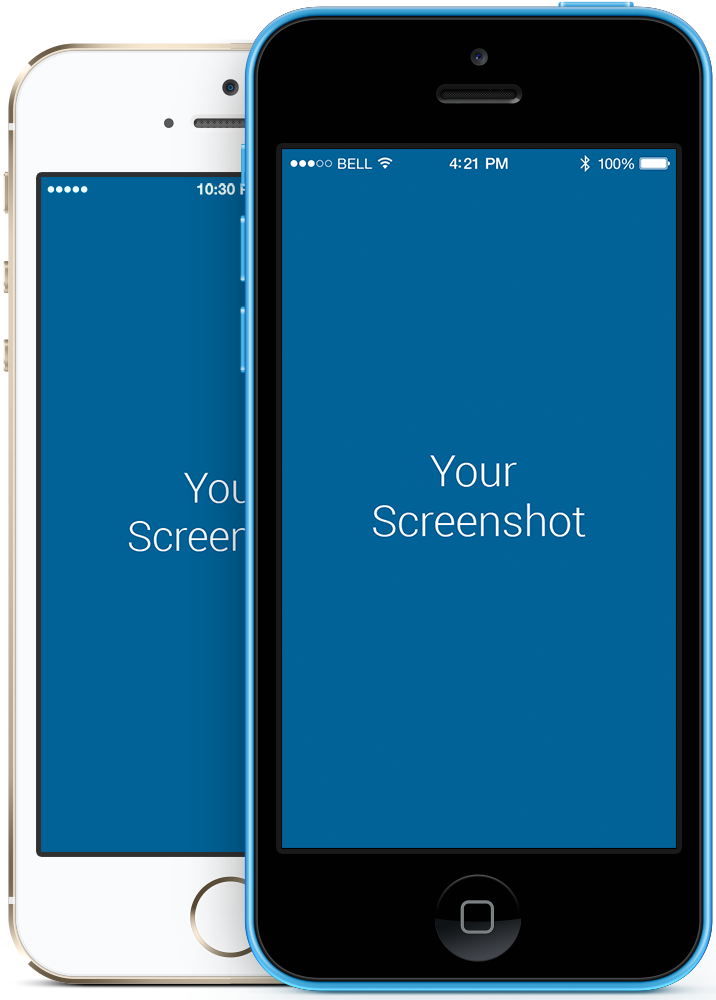
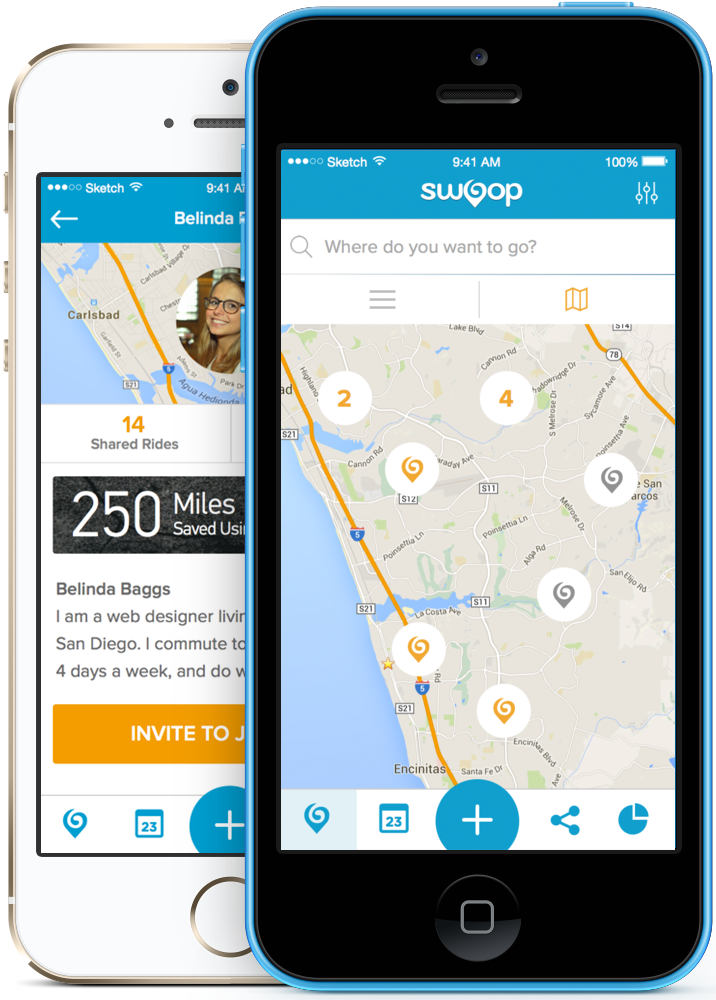
updated some screenshots

diff --git a/index.html b/index.html
@@ -732,9 +732,9 @@
 		<div id="screenshots" class="owl-carousel owl-theme">
 			
 			<div class="shot">
-				<a href="images/screenshots/1.jpg" data-lightbox-gallery="screenshots-gallery"><img src="images/screenshots/1.jpg" alt="Screenshot"></a>
+				<a href="images/screenshots/swoop_feed_map.png" data-lightbox-gallery="screenshots-gallery"><img src="images/screenshots/swoop_feed_map.png" alt="Screenshot"></a>
 			</div>
-			
+
 			<div class="shot">
 				<a href="images/screenshots/3.jpg" data-lightbox-gallery="screenshots-gallery"><img src="images/screenshots/3.jpg" alt="Screenshot"></a>
 			</div>
